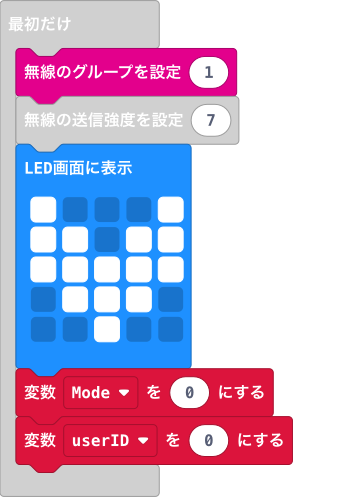
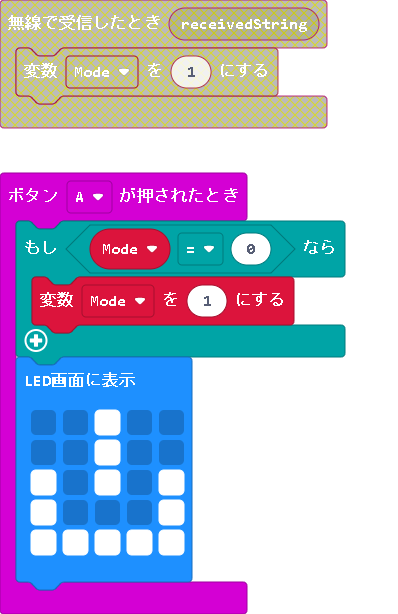
子機

diff --git a/main.ts b/main.ts
@@ -1,5 +1,14 @@
-radio.onReceivedString(function (receivedString) {
-    Mode = 1
+input.onButtonPressed(Button.A, function () {
+    if (Mode == 0) {
+        Mode = 1
+    }
+    basic.showLeds(`
+        . . # . .
+        . . # . .
+        # . # . #
+        # . . . #
+        # # # # #
+        `)
 })
 let Mode = 0
 radio.setGroup(1)
